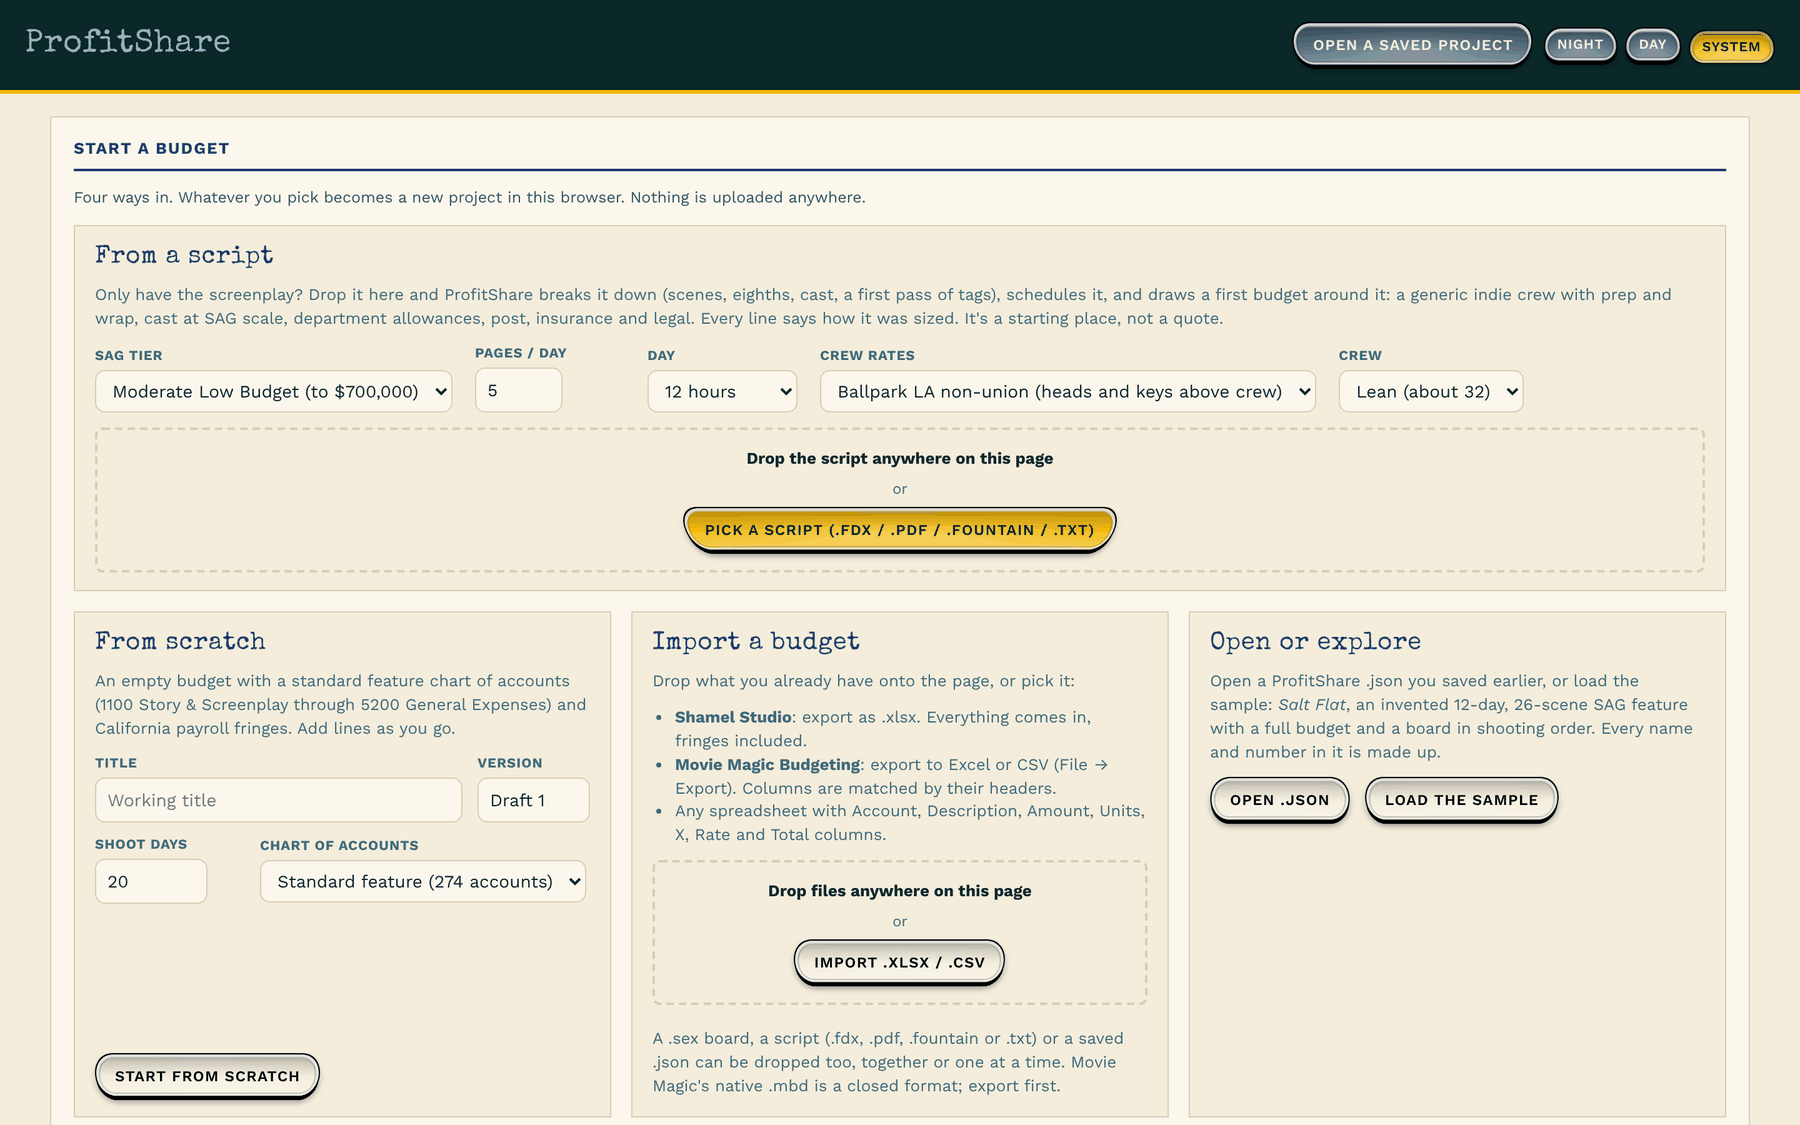
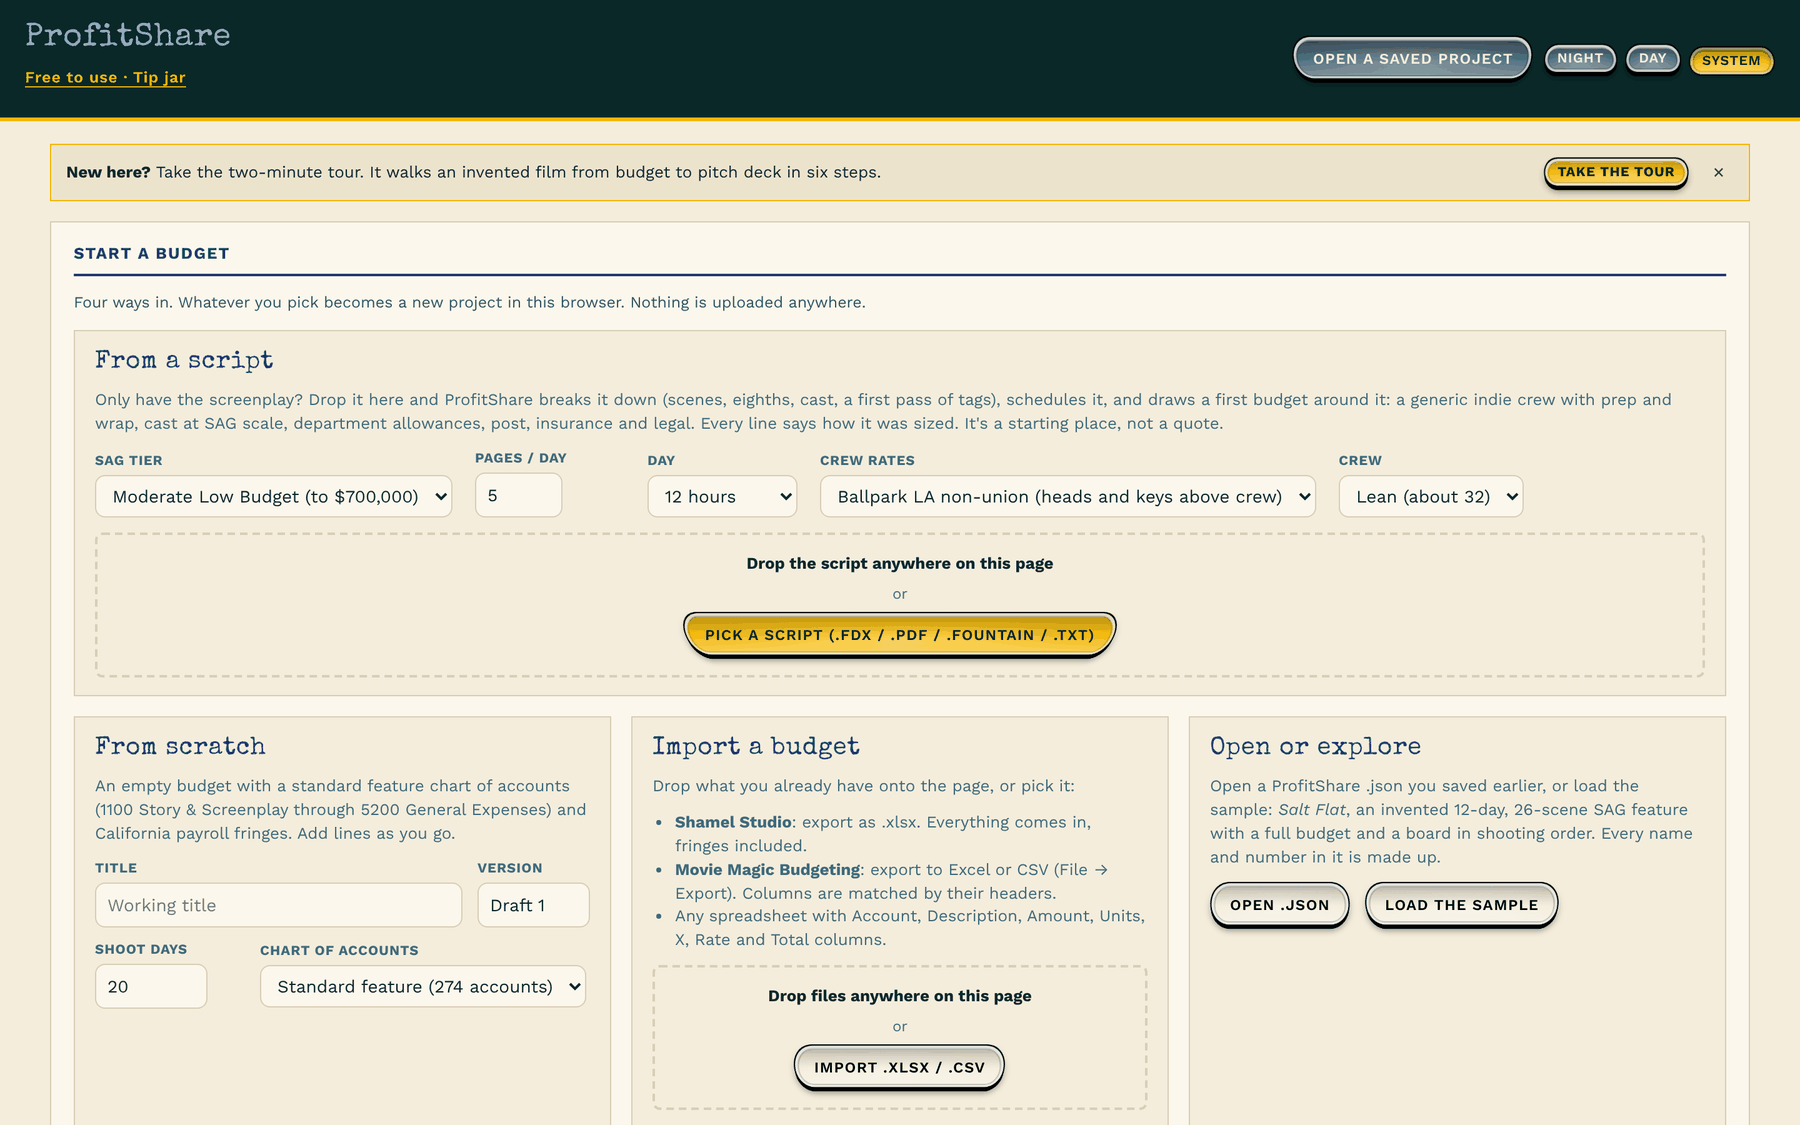
README and screenshots catch up with the overnight features; Top sheet help matches the fixed pay cell
Claude-Session: https://claude.ai/code/session_012ifNQ9qZTqJcveebdVpd2Z

diff --git a/src/ui/TopSheetView.tsx b/src/ui/TopSheetView.tsx
@@ -150,7 +150,7 @@ export function TopSheetView({ project, raw, controlled, setProject, starter, se
         <p className="help">
           {empty
             ? <>Nothing in the budget yet. Open a category, then an account, and press <b>+ line</b>. Every line is amount × rate × multiplier, with fringes on top. <b>Edit accounts</b> lets you rename, add or remove categories and accounts.</>
-            : <>Click a category, then an account, to open its lines. Change <b>Pay</b> on any line to move it between up front, deferred and points. Up front is what you have to raise; deferred still counts for SAG; points live only in the back end.</>}
+            : <>Click a category, then an account, to open its lines. Change <b>Pay</b> on a line to move it between up front, deferred and points; lines the Deal tab sets say so and take you there. Up front is what you have to raise; deferred still counts for SAG; points live only in the back end.</>}
         </p>
         {!empty && <p className="help budget-export-help">{BUDGET_EXPORT_HELP} <span role="status">{exportNote}</span></p>}
         <table>

diff --git a/README.md b/README.md
@@ -12,7 +12,7 @@ The top sheet, the SAG-AFTRA tier check, the schedule and the points schedule al
 
 Written by a director budgeting her first feature, because none of the tools would let her model the deal she was actually making.
 
-**Use it now: https://profitshare.alonegirlmovie.com/** (nothing to install, no account). Press *Load the sample* to look around an invented film, *Salt Flat*.
+**Use it now: https://profitshare.alonegirlmovie.com/** (nothing to install, no account). Press *Load the sample* to look around an invented film, *Salt Flat*. *Take the tour* walks you through the sample in a few steps, and the glossary on the About page explains the money words (waterfall, recoupment, deferred, points) in plain English.
 
 ![The Deal tab with the sample film loaded. One sentence at the top says what the film costs to raise, which SAG-AFTRA tier it fits and how much is on the back end; under it a table prices the film at every tier under four pay models.](docs/screenshots/deal.png)
 
@@ -28,11 +28,11 @@ Written by a director budgeting her first feature, because none of the tools wou
 
 ## Privacy
 
-Your projects live in your browser and in the `.json` file you save. There are no accounts, there is no server, and nothing is uploaded. Clearing your browser's site data removes any project you never saved to a file, so press *Save* for anything you want to keep.
+Your projects live in your browser and in the `.json` file you save. There are no accounts, there is no server, and nothing is uploaded. Clearing your browser's site data removes any project you never saved to a file, so press *Save* for anything you want to keep. ProfitShare reminds you when a project has changes that are not in a file yet, and *Download all my projects* on the start screen puts every project in this browser into one `.zip`.
 
 Two things contact the network, and only when you ask:
 
-- **AI assist (optional).** It is off until you paste your own Anthropic API key, which is kept in this browser and never in the project file. Each AI button says what it sends before it sends it, and the request goes from your browser straight to Anthropic. *Draft* on the Pitch tab sends a short brief of your pitch and figures, plus any PDFs you added for it to read. *AI breakdown* on the Stripboard sends the scene text, the cast list and the tag names in use. Nothing is applied until you accept it.
+- **AI assist (optional).** It is off until you paste your own Anthropic API key, which is kept in this browser and never in the project file. The key is not encrypted; use one with a spending limit. Each AI button says what it sends before it sends it, and the request goes from your browser straight to Anthropic. *Draft* on the Pitch tab sends a short brief of your pitch and figures, plus any PDFs you added for it to read. *AI breakdown* on the Stripboard sends the scene text, the cast list and the tag names in use. Nothing is applied until you accept it.
 - **The Google Fonts picker (optional).** It asks first. If you agree, font previews and the font you pick are fetched from Google, which sees your computer's address and which fonts you look at, and nothing about your project. The picked font is saved into the project, so a deck you send never needs Google.
 
 The app page carries a Content-Security-Policy that lets it talk only to itself, `api.anthropic.com` and the two Google Fonts hosts.
@@ -48,7 +48,7 @@ The start screen has four ways in:
 - **Import a budget.** A Shamel Studio `.xlsx` export, a Movie Magic Budgeting Excel or CSV export, or any spreadsheet with Account, Description, Amount, Units, X, Rate and Total columns. A Movie Magic Scheduling `.sex` board can be dropped too.
 - **Open or explore.** Open a saved `.json`, or load the sample: *Salt Flat*, an invented 12-day, 26-scene SAG feature with a 154-line budget. Every name and number in it is made up.
 
-Every project is autosaved in the browser; *Save* downloads it as one `.json` file to keep or hand to a collaborator.
+Every project is autosaved in the browser; *Save* downloads it as one `.json` file to keep or hand to a collaborator. *Download all my projects* saves every project in this browser as one `.zip`, and a reminder appears when a project has changes you have not saved to a file.
 
 ### Set the deal
 
@@ -64,9 +64,10 @@ The Deal tab holds every term in one place, as a layer over the budget. The budg
 ### Budget
 
 - A top sheet (the one-page summary of a budget by category) over a chart of accounts you can edit.
-- Each line is amount × rate, with fringes on top, and a pay type you can change in place.
+- Each line is amount × rate, with fringes on top, and a pay type you can change in place. Where the Deal tab sets the pay (producer fees, the script purchase, star allowances), the line says so and links to the control that sets it.
 - Up front, deferred and points totals sit side by side. Lines the deal sets are marked.
 - Print the top sheet or the full budget.
+- Export for someone who does not use ProfitShare: an Excel workbook (the top sheet, every line, the points schedule and the deal terms), a CSV of the budget lines for other budgeting software, or a PDF of the top sheet and full budget.
 
 ### Schedule
 
@@ -121,11 +122,11 @@ Credits and perks are switches. They do not change what the film spends; they re
 
 ## Screenshots
 
-![The start screen: four panels titled From a script, From scratch, Import a budget, and Open or explore.](docs/screenshots/start.png)
+![The start screen: an invitation to take the tour, then four panels titled From a script, From scratch, Import a budget, and Open or explore.](docs/screenshots/start.png)
 
 *The start screen, with its four ways in.*
 
-![The top sheet: budget to raise, deferred and points totals across the top, and the producers account opened to show two fee lines marked as set by the deal and paid in points.](docs/screenshots/top-sheet.png)
+![The top sheet: budget to raise, deferred and points totals across the top, the print and export buttons, and the producers account opened to show two fee lines marked as set by the deal and paid in points, each with a button to the Deal tab.](docs/screenshots/top-sheet.png)
 
 *The top sheet. The two producer fees are marked "deal" because the Deal tab moved them to points.*
 
@@ -207,7 +208,6 @@ These numbers move. None of this is legal, tax or financial advice. Check the nu
 
 Not built yet:
 
-- Export of the top sheet and points schedule to Excel or CSV (today they print, and print can save a PDF)
 - A participation-agreement exhibit generated from the points schedule
 - Movie Magic Budgeting native `.mbd` files (needs a sample; the Excel and CSV exports already import)
 - Reading notes for a sent deck ("who opened it"), planned as a collector you host yourself

diff --git a/CHANGELOG.md b/CHANGELOG.md
@@ -34,6 +34,10 @@ Two independent reviews of the night's work found these, fixed the same morning:
 - **Typefaces in a sent deck.** The Latin font file is now chosen by what its rule says it covers, not by the order the rules are in.
 - **The one-file build opens again.** Its security policy was written before the app's code was put into the page, so the page refused its own script. The policy is now worked out from the finished file.
 - Tests run on the current jsdom (31).
+- **Pay set by the deal no longer pretends to be editable.** On producer fee, script purchase and star allowance lines the budget tab shows the pay as fixed, with a button to the Deal tab control that sets it. The menu used to flip back.
+- **Smaller first load.** The file readers load when you bring a file in.
+- **Tidying.** Report deck leftovers, the old smoke scripts and unused code are gone; the compiler now refuses unused locals and parameters; the browser walk covers every way in from the start screen (63 steps).
+- **README caught up.** It now describes the tour and glossary, export, the save reminder and *Download all my projects*, and the start screen and top sheet screenshots were retaken.
 
 ## 2026-11-18
 
